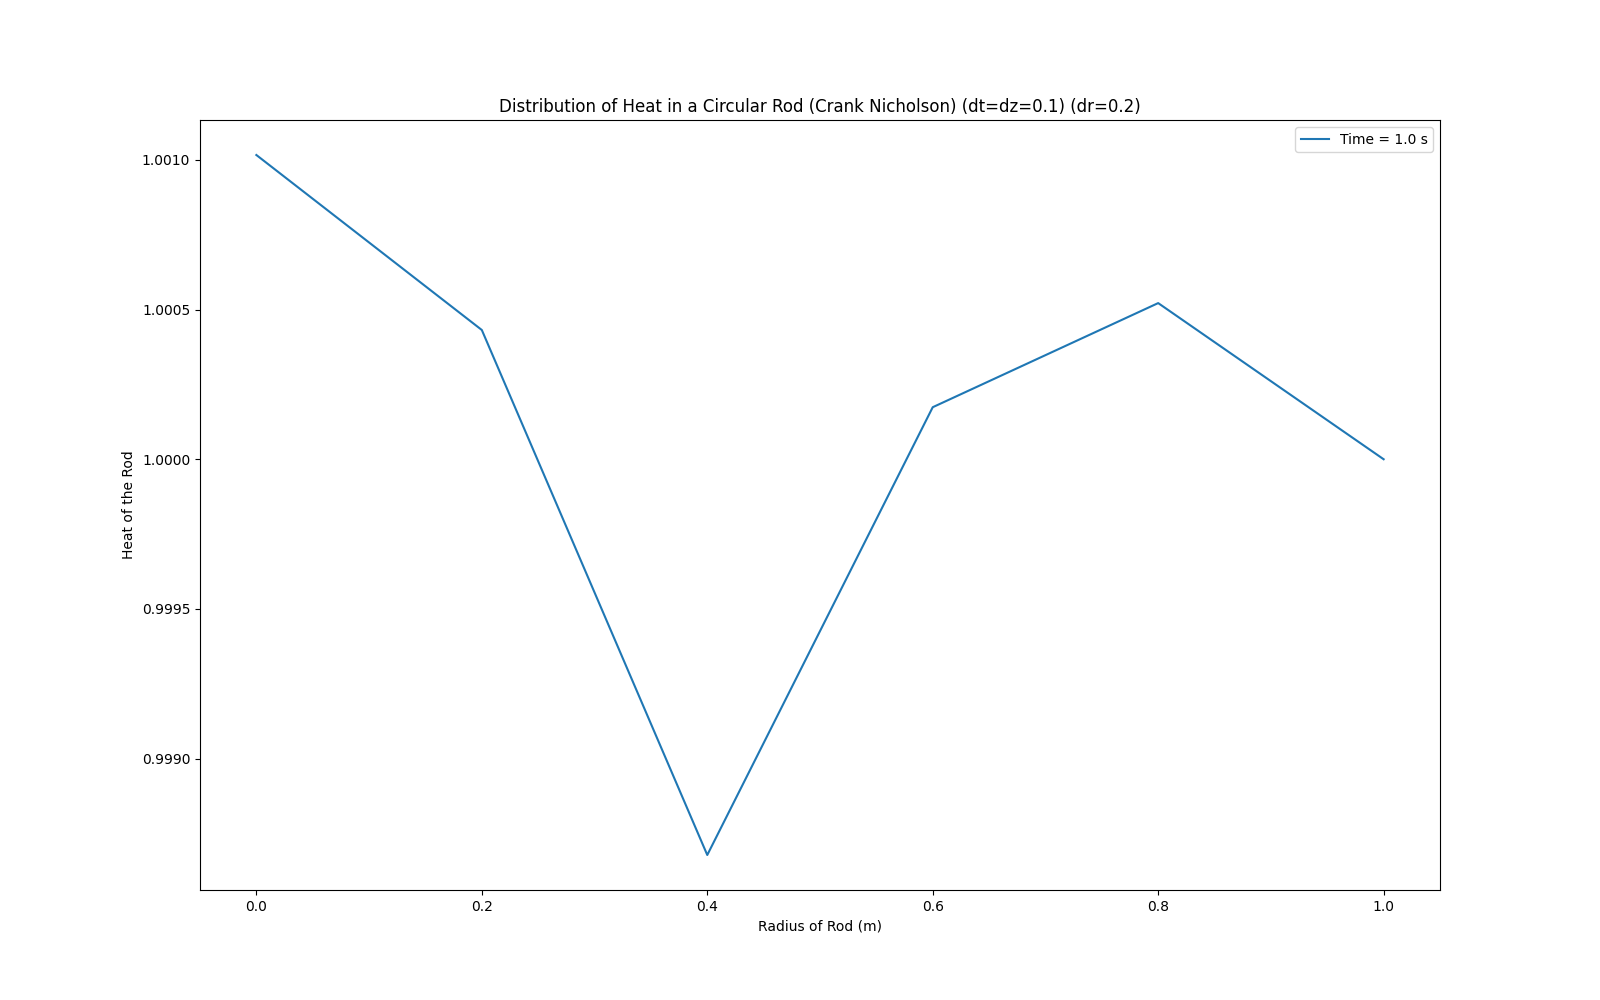
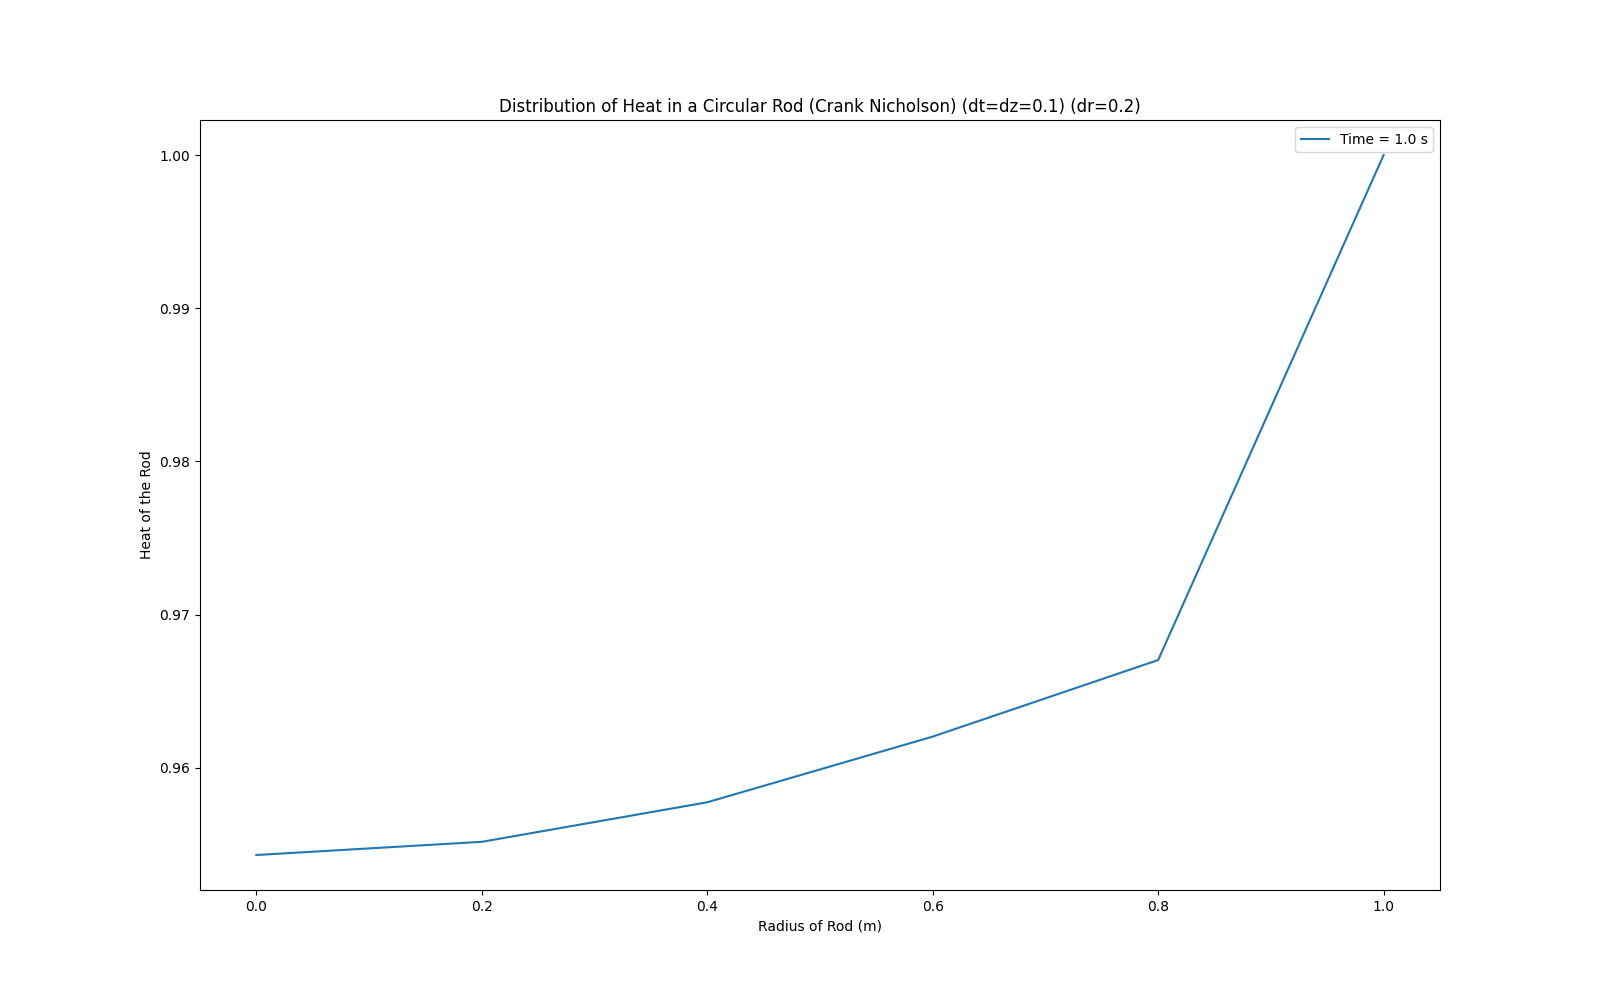
Render

diff --git a/Assignments/Assignment 4/MethodOfLines.py b/Assignments/Assignment 4/MethodOfLines.py
@@ -10,7 +10,7 @@ import matplotlib.pyplot as plt
 #
 
 # Define dr the Start, End and Number of Space Nodes, and create the array of Values
-dr = 0.001
+dr = 0.2
 rInit = 0
 rEnd = 1
 rNodes = int((rEnd - rInit)/dr + 1)
@@ -47,17 +47,19 @@ def dUdt (t, U):
     dU[0] = 2*UAll[1] - 2*UAll[0]
     
     # Apply all Generic Nodes
-    for i in range(1, n - 1):
+    for i in range(1, n):
+        # Extract the R Value
         ri = rVals[i]
         
         # Apply Generic Node Equation
         dU[i] = (1 + dr/(2 * ri)) * UAll[i + 1] - 2*UAll[i] + (1 - dr/(2 * ri)) * UAll[i - 1]
     
     # Apply Last Node
-    dU[-1] = -2*UAll[-2] + (1-dr/(2*rVals[-2])) * UAll[-3] + (1 + dr/(2*rVals[-2]))
+    #dU[-1] = -2*UAll[-2] + (1-dr/(2*rVals[-2])) * UAll[-3] + (1 + dr/(2*rVals[-2]))
     
+    #print(dU)
     # Return result Multiplied by Lambda
-    return lam*dU
+    return lam * dU
     
 
 # Solve the System of Equations
